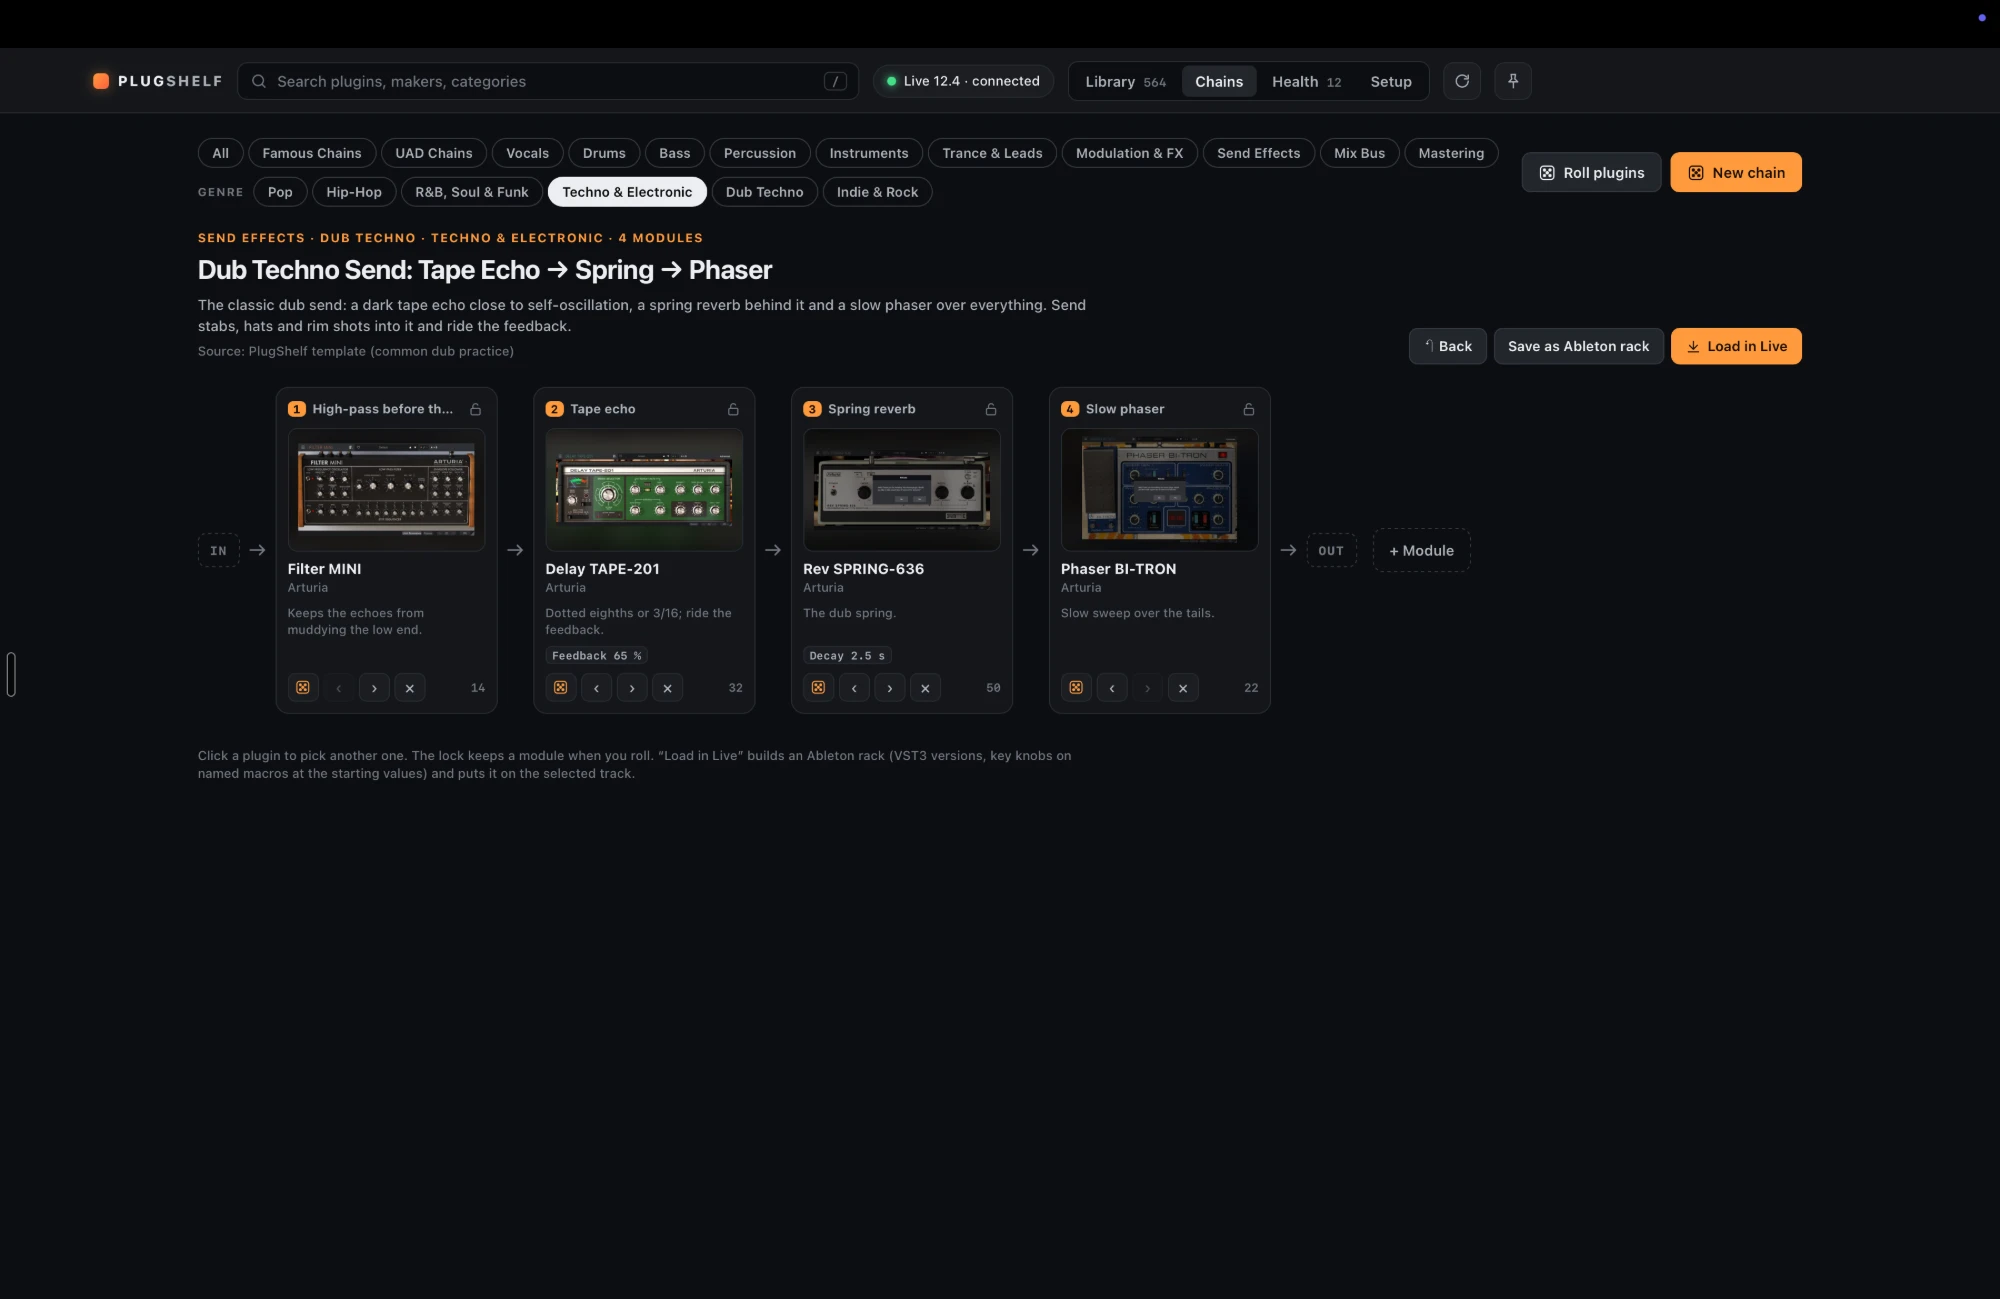
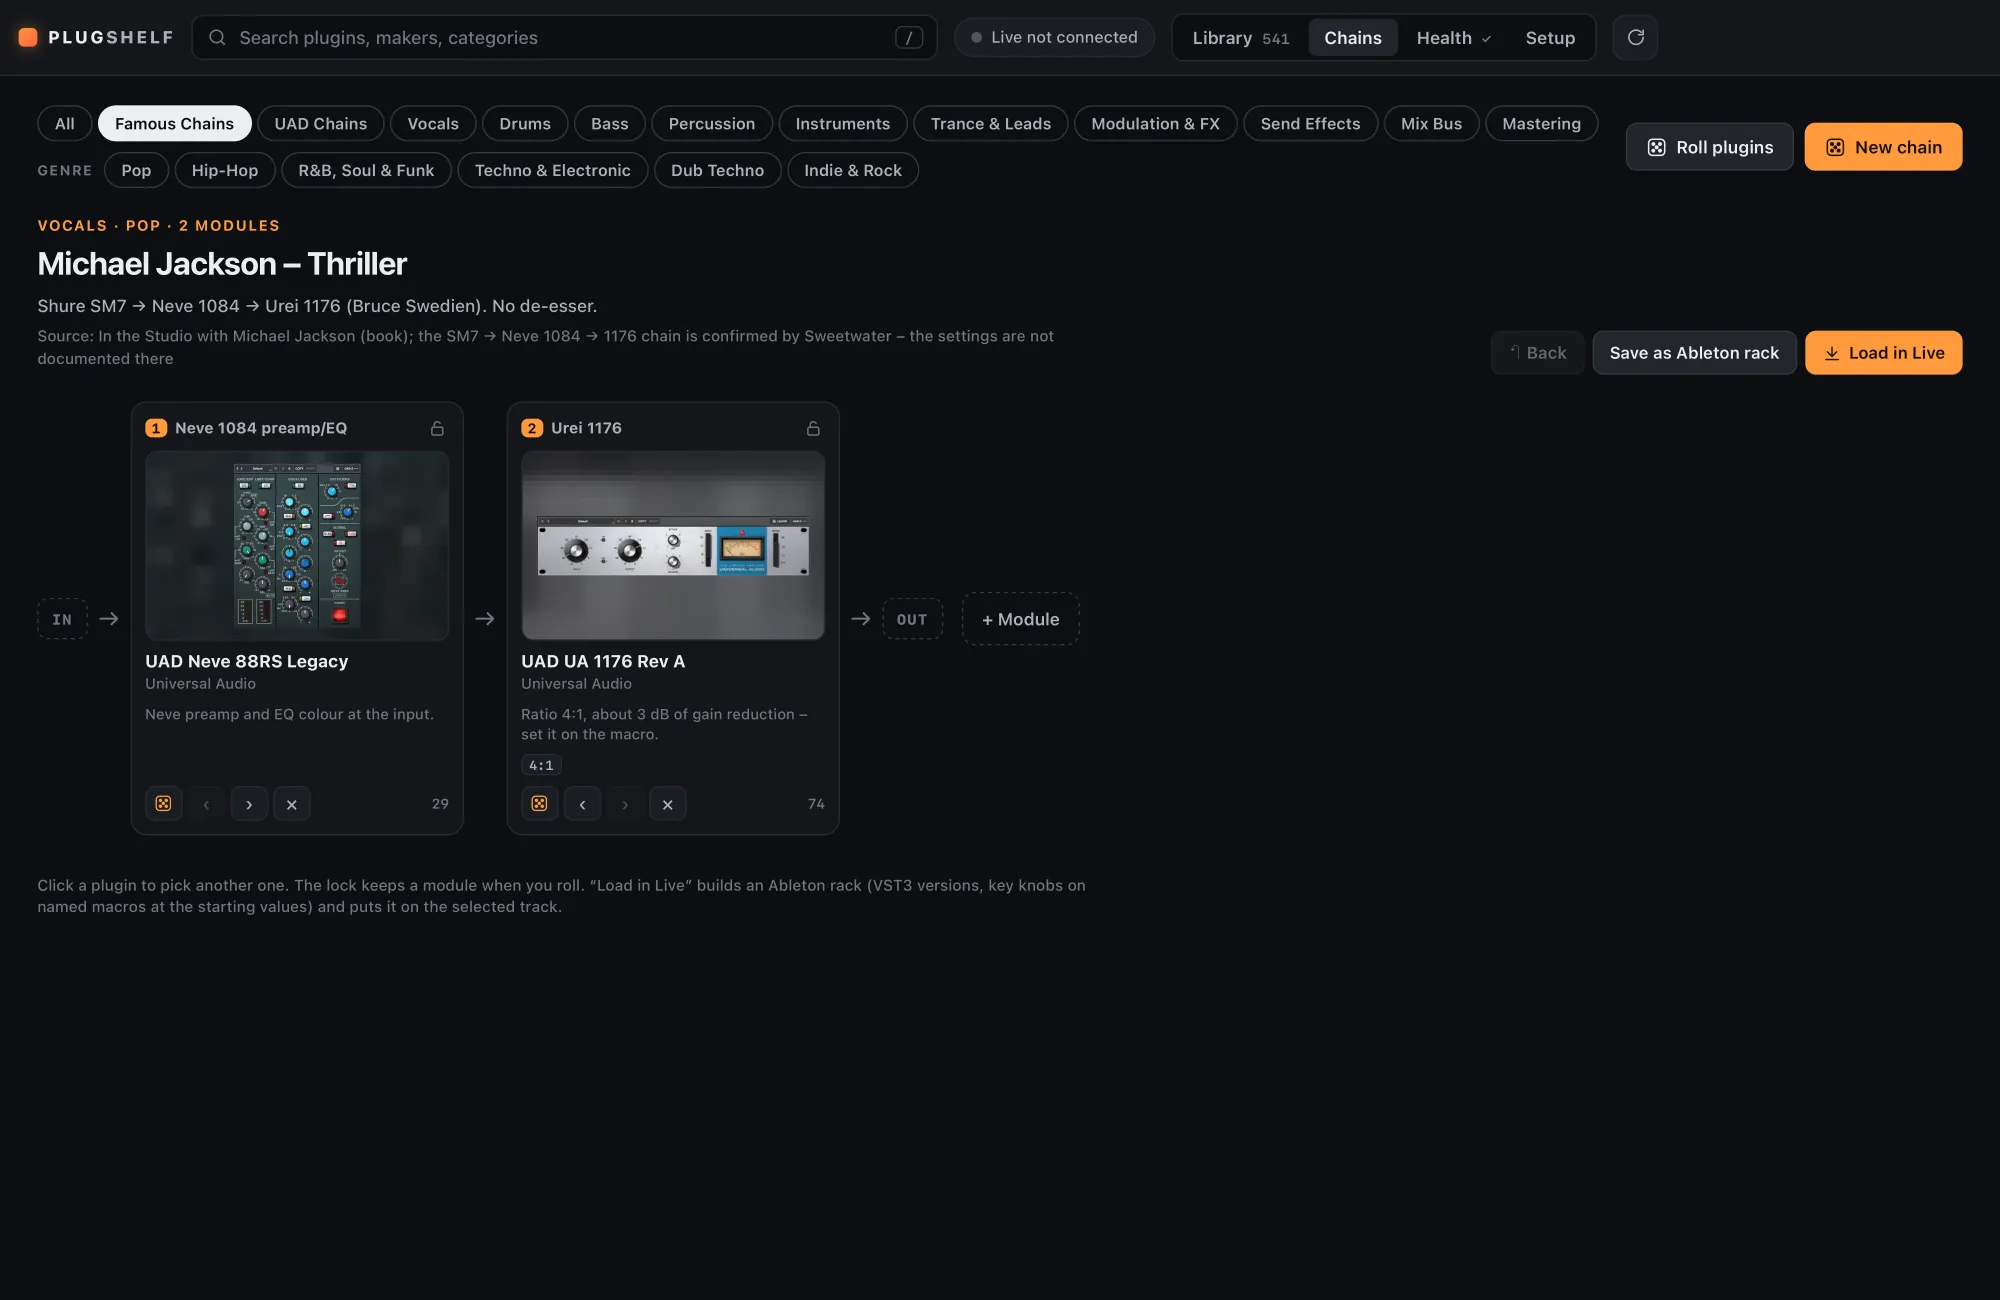
README: new screenshots (library, details, stock devices, chains, health)

diff --git a/README.md b/README.md
@@ -1,13 +1,17 @@
 # PlugShelf
 
-PlugShelf is a macOS plugin manager and chain builder for Ableton Live. It finds installed audio plugins,
-organizes them in a searchable library, loads plugins onto Live's selected track, and creates effect,
-mix-bus, mastering, and famous-recording chains.
+PlugShelf is a macOS plugin manager and chain builder for Ableton Live. It finds installed audio plugins and
+Live's own devices, shows them with pictures and short descriptions, loads them onto Live's selected track, and
+builds effect, mix-bus, mastering, and famous-recording chains.
 
 <p>
-  <a href="docs/screenshots/library.webp"><img src="docs/screenshots/library.webp" width="32%" alt="Plugin library"></a>
-  <a href="docs/screenshots/chains.webp"><img src="docs/screenshots/chains.webp" width="32%" alt="Chain builder"></a>
-  <a href="docs/screenshots/health.webp"><img src="docs/screenshots/health.webp" width="32%" alt="Plugin health view"></a>
+  <a href="docs/screenshots/library.webp"><img src="docs/screenshots/library.webp" width="32%" alt="Plugin library with pictures"></a>
+  <a href="docs/screenshots/details.webp"><img src="docs/screenshots/details.webp" width="32%" alt="Plugin details with description"></a>
+  <a href="docs/screenshots/stock.webp"><img src="docs/screenshots/stock.webp" width="32%" alt="Ableton Live stock devices"></a>
+</p>
+<p>
+  <a href="docs/screenshots/chains.webp"><img src="docs/screenshots/chains.webp" width="32%" alt="Chain builder with a famous chain"></a>
+  <a href="docs/screenshots/health.webp"><img src="docs/screenshots/health.webp" width="32%" alt="Plugin health with clean-up"></a>
 </p>
 
 ## Download and install (for users)
